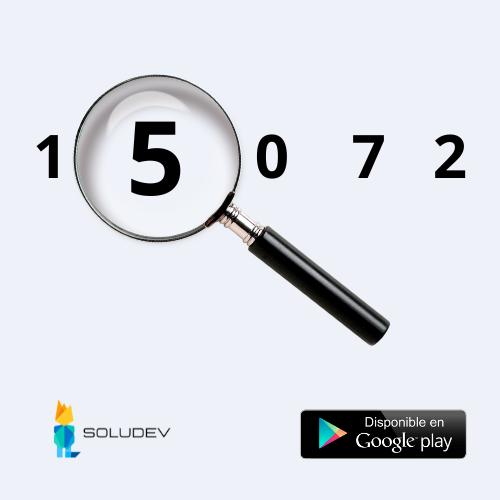
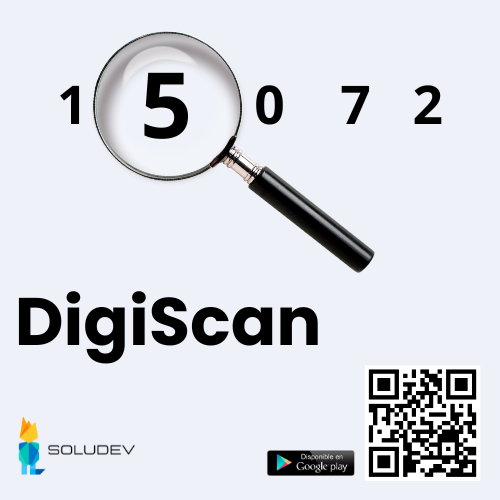
Cambios en compartir.

diff --git a/lib/screens/more_about_digiscan/components/body_more_about_digiscan.dart b/lib/screens/more_about_digiscan/components/body_more_about_digiscan.dart
@@ -59,7 +59,8 @@ class BodyMoreAboutDigiScan extends StatelessWidget {
                     File('${(await getTemporaryDirectory()).path}/image.png');
                 await file.writeAsBytes(bytes);
                 Share.shareXFiles([XFile(file.path)],
-                    text: 'Encontranos en Play Store.');
+                    text:
+                        'DigiScan, encontranos en Play Store https://play.google.com/store/apps/details?id=com.soludev.digiscan. SoluDev.');
               },
               backgroundColor: Colors.purple,
               textColor: Colors.white,
